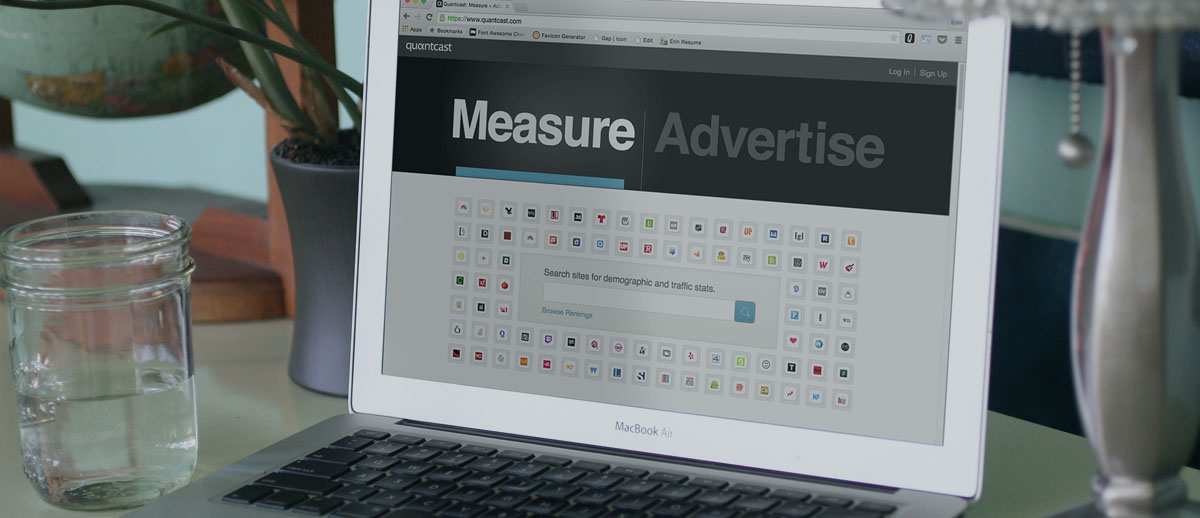
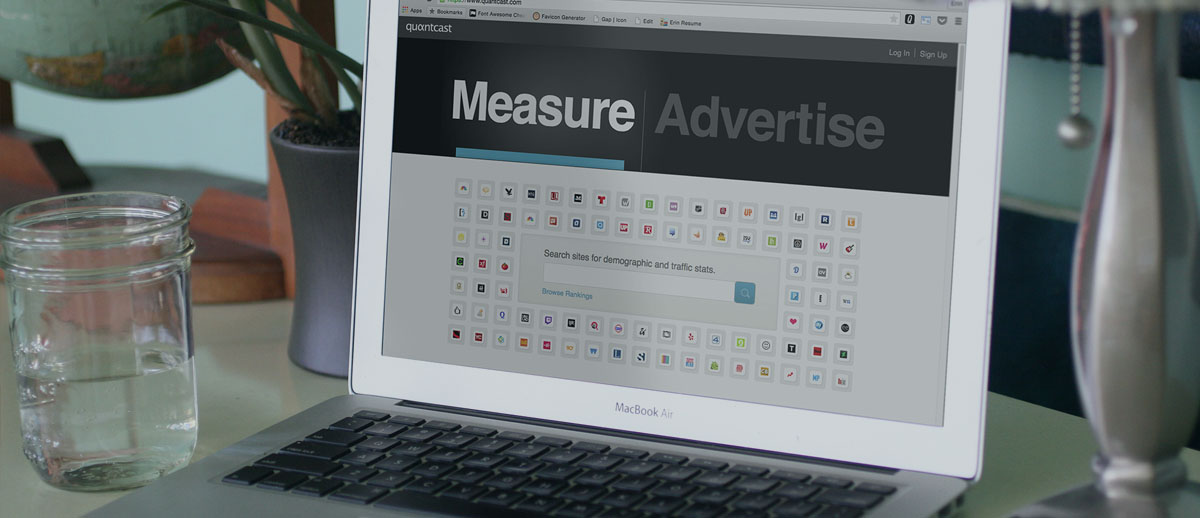
image updates, creative live page edits

diff --git a/html/creativelive.html b/html/creativelive.html
@@ -23,8 +23,8 @@
 <div class="photo-container clearfix">
   <div class="subphoto subphoto-creativelive"></div>
   <div class="whitecard view-slides clickable">
-    <h4>an app to quietly help</h4>
-    <h5>passive job seekers</h5>
+    <h4>designs to inspire</h4>
+    <h5>creative learners</h5>
     <h6>view slides</h6>
   </div>
   <div class="eg-modal">
@@ -37,10 +37,9 @@
             <img class="responsive center" src="http://eringallup.info/name/logo.png">
           </div>
           <div class="slide-left col-sm-5 col-sm-pull-7">
-            <h4>the project</h4>
+            <h4>project 1: site redesign</h4>
             <hr>
-            <p>This project was a sketch to test out the concept of a &lsquo;Tinder for jobs&rsquo;. The first task was to decide on a name and pull together a logo, which would give us a starting point for the design.</p>
-            <p>The name and logo are designed to evoke trust and hint at exclusivity.</p>
+            <p>This was Creative Live's site when I arrived at the company. They had just redesigned their logo with an outside agency and were looking to update the site to make their users feel more at home.</p>
           </div>
         </div>
 
@@ -255,11 +254,13 @@
     <div class="body-left col-sm-4">
       <div class="body-title">
         <h3>Who are</h3>
-        <h4>passive job seekers?</h4>
+        <h4>creative learners?</h4>
       </div>
     </div>
     <div class="body-right col-sm-7 col-sm-offset-1">
-      <p>The passive job seeker is a skilled employee who is starting to feel that the next job is on the horizon. They are busy with their current job and do not have time to do a search, but would be open to new opportunities. They only want to see jobs that they are qualified for and ones that they'd leave their current job for. They are frequently contacted by recruiters - many times at inopportune times and for jobs they are not interested in. </p>
+      <p>Creative learners are the arty people among us. They are free spirits managing their 9-5 jobs but are dreaming of a life where they do what they love and get paid for it. They are ready to make the leap but aren't sure exactly how to make that happen. </p>
+      <p>They are people who love to learn new things. They are working photographers, musicians, crafters and graphic designers looking to hone thier crafts and grow their business skills.</p>
+      <p>Creative learners are visual, optimistic people who get bogged down by too many choices and lots of reading. They learn best by being told and shown. They like to learn alongside others and feel a part of a community.</p>
     </div>
   </div>
 </div>
@@ -267,30 +268,30 @@
 <div class="project container">
   <div class="row">
     <div class="col-sm-12">
-      <h4 class="project-title">The Project</h4>
-      <p class="lead">Create a system that reduces prospecting friction for passive job seekers.</p>
+      <h4 class="project-title">Projects</h4>
+      <p class="lead">Make designs that are intuitive and inspiring for creative learners.</p>
     </div>
   </div>
   <div class="row project-items match-height distribute">
     <div class="project-item col-sm-3">
       <div class="project-item-top" style="padding-top: 30px;"><img class="responsive" src="../images/rarelead-logo.png"></div>
-      <h5>Logo</h5>
-      <p>Starts visual design and branding</p>
+      <h5>Redesign</h5>
+      <p>Simple navigation and new brand make creative people feel at home.</p>
     </div>
     <div class="project-item col-sm-3">
       <div class="project-item-top"><img class="responsive outline" src="http://eringallup.info/name/screens/4.png"></div>
-      <h5>App</h5>
-      <p>Allows seekers to qualify themselves and show interest</p>
+      <h5>Calendar</h5>
+      <p>Allows users to find upcoming classes of interest</p>
     </div>
     <div class="project-item col-sm-3">
       <div class="project-item-top"><img class="responsive outline" src="http://eringallup.info/name/7-1.png"></div>
-      <h5>Site</h5>
-      <p>Allows recruiters to post jobs and contact prospects</p>
+      <h5>App</h5>
+      <p>Simplifies watching classes on the go</p>
     </div>
     <div class="project-item col-sm-3">
       <div class="project-item-top"><img class="responsive outline" src="http://eringallup.info/name/16-1.png"></div>
-      <h5>Lander</h5>
-      <p>Tests user interest while site is created</p>
+      <h5>Viewer</h5>
+      <p>Classroom gives users a place to focus and interact</p>
     </div>
   </div>
 </div>
@@ -299,14 +300,12 @@
   <div class="row">
     <div class="body-left col-sm-4">
       <div class="body-title">
-        <h3>What was</h3>
-        <h4>the solution?</h4>
+        <h3>What were some</h3>
+        <h4>reactions?</h4>
       </div>
     </div>
     <div class="body-right col-sm-7 col-sm-offset-1">
-      <p>To soften the outreach process for both the job seeker and the recruiter, simplicity and privacy had to be designed into the product. The app would allow a candidate to share their linked in profile page to be automatically qualified. They would browse through jobs with direct, easy to read details and show interest by clicking the checkmark button. They would be contacted only through text and only if they first showed interest.</p>
-
-      <p>The recruiter would have a streamlined process of adding jobs to the system through an easy to use website that guides them into creating an appealing posting with succinct details. They would no longer need to contact potential candidates out of the blue as the system would show only people with real interest.</p>
+      <p>Insert twitter comments.</p>
     </div>
   </div>
 </div>

diff --git a/html/rarelead.html b/html/rarelead.html
@@ -299,8 +299,8 @@
   <div class="row">
     <div class="body-left col-sm-4">
       <div class="body-title">
-        <h3>What was</h3>
-        <h4>the solution?</h4>
+        <h3>What was the</h3>
+        <h4>solution?</h4>
       </div>
     </div>
     <div class="body-right col-sm-7 col-sm-offset-1">

diff --git a/css/screen-layout-large.css b/css/screen-layout-large.css
@@ -208,7 +208,7 @@ img.responsive {
   background-repeat: no-repeat;
 }
 .subphoto-quantcast {
-  background-image: url(../images/currencyquantcast.jpg);
+  background-image: url(../images/quantcast.jpg);
   background-position: 0 0;
   background-repeat: no-repeat;
 }
